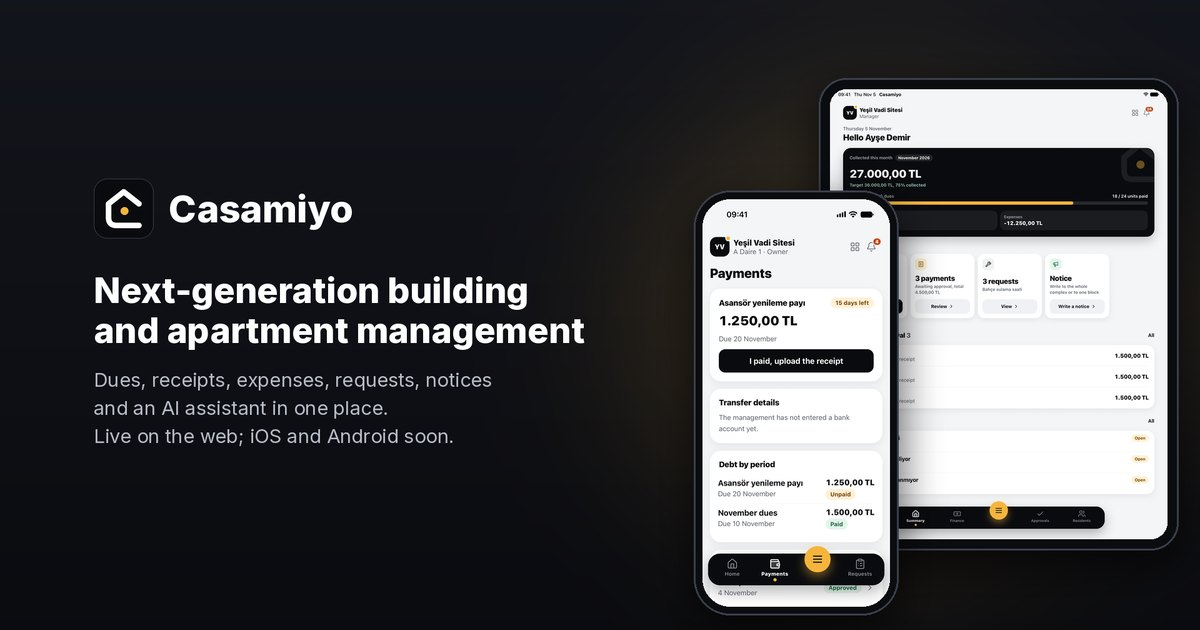
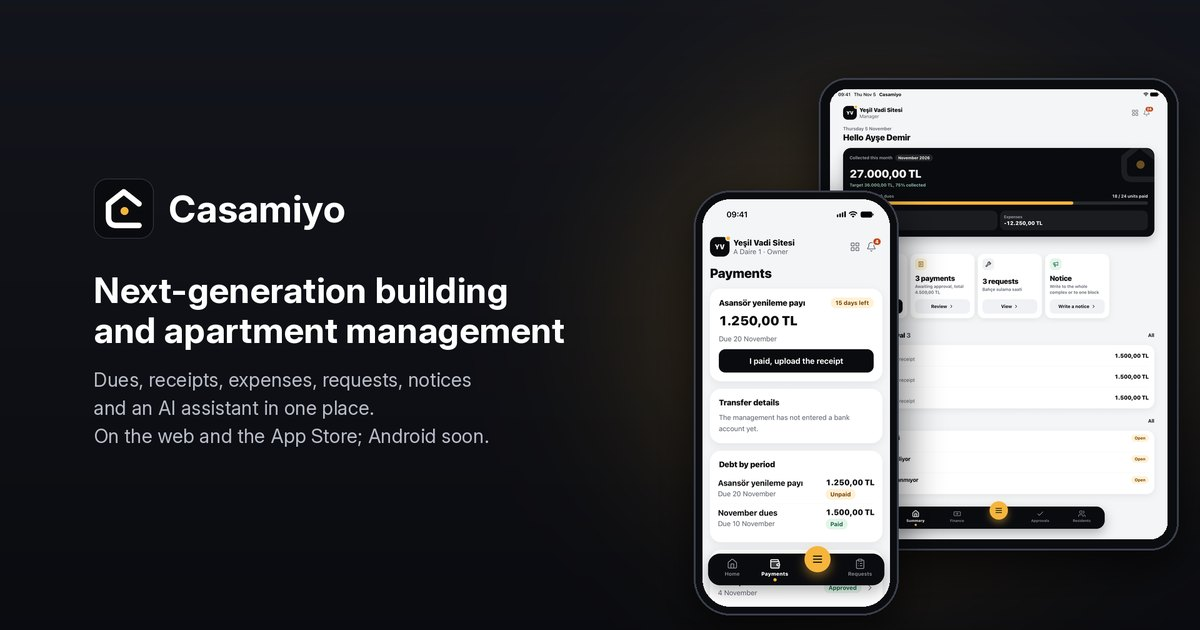
Add the Casamiyo iOS app
Casamiyo has been on the App Store for iPhone and iPad since 10 November
2026. The project gets the App Store link, its page and the About text
say so, and the covers now read "On the web and the App Store; Android
soon." The Android app is still coming soon.

Changed region(s): [[0.0617, 0.4222, 0.4933, 0.7238], [0.1542, 0.3016, 0.3083, 0.3619]]

diff --git a/src/components/home/About.tsx b/src/components/home/About.tsx
@@ -26,7 +26,7 @@ const copy: Record<'en' | 'tr', Part[][]> = {
     ],
     [
       { text: 'Casamiyo', slug: 'casamiyo' },
-      ', a building and apartment management app I built with a business partner, is live on the web, and its iOS and Android apps are coming soon. I am now building ',
+      ', a building and apartment management app I built with a business partner, is live on the web and the App Store, and its Android app is coming soon. I am now building ',
       { text: 'Notanica', slug: 'notanica' },
       ', a sheet-music app for iPhone, iPad and Android that reads a printed page and plays it.',
     ],
@@ -64,7 +64,7 @@ const copy: Record<'en' | 'tr', Part[][]> = {
     [
       'Bir iş ortağıyla birlikte geliştirdiğim site ve apartman yönetimi uygulaması ',
       { text: 'Casamiyo', slug: 'casamiyo' },
-      " web'de yayında, iOS ve Android uygulamaları da yakında geliyor. Şu sıralar basılı notayı okuyup çalan, iPhone, iPad ve Android için bir nota uygulaması olan ",
+      " web'de ve App Store'da yayında, Android uygulaması da yakında geliyor. Şu sıralar basılı notayı okuyup çalan, iPhone, iPad ve Android için bir nota uygulaması olan ",
       { text: 'Notanica', slug: 'notanica' },
       "'yı geliştiriyorum.",
     ],
